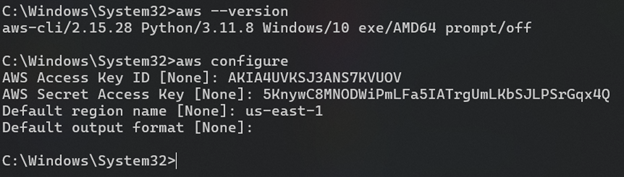
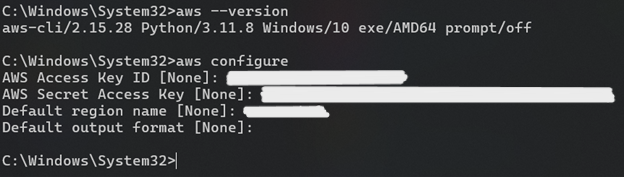
cli section completed

Changed region(s): [[0.3349, 0.3955, 1.0, 0.678]]

diff --git a/AWS_basics/AWS_CLI/README.md b/AWS_basics/AWS_CLI/README.md
@@ -11,21 +11,57 @@ Pretty useful when you want to automate tasks or use AWS from your local machine
 ![Web search for AWS CLI](images/cli001.png)
 
 **Step 2:** Follow the instructions on the official AWS documentation to install AWS CLI on your local machine.
+
 ![Instructions01](images/cli002.png)
 ![Instructions02](images/cli003.png)
 
 **Step 3:** Confirm the installation by running the following command in your terminal:
 
-    aws --version
+```bash
+aws --version
+```
 
 ![Confirmation](images/cli004.png)
 
-**Step 4:**
+After this if you try to run a program the mussage "Unable to locate credentials" is going to show up.
+
+**Step 4:** Enable the credentials using the AWS account.
+
+* Go to AWS Console and search for the Identity and Access Management (IAM).
+* In the menu on the left click the "Users" option unde Access Management.
+
+![IAM console](images/cli005.png)
+
+* Create a user, you can also use a accesss already created
+* For this we need the access key and the secret access key
+
+![IAM access keys](images/cli006.png)
+
+**Step 5:** Go back to your terminal and run the command:
+
+```bash
+aws configure
+```
+
+* It is going to ask for the access key just generated and then for the secret access key, select default region and your preferable output format.
+
+![aws configure](images/cli0010.png)
 
 ## Outcome
 
-<outcome text>
+Once the configuration is complete, you should be able to interact with AWS services directly from your terminal using the AWS CLI. For example:
+
+1. Run the following command to list all S3 buckets in your account:
+    ```bash
+    aws s3 ls
+    ```
+
+2. If the configuration is correct, you will see a list of S3 buckets associated with your AWS account.
+
+3. You can now execute other AWS CLI commands to manage resources, such as EC2 instances, DynamoDB tables, or Lambda functions.
+
+If you encounter any errors, double-check the access key, secret access key, and region provided during the configuration process.
 
 ## Conclution
 
-<Conclution text>
+We have walked through the steps to set up AWS CLI on your local machine, configure it with your AWS credentials, and verify its functionality. By completing these steps, you now have the ability to interact with AWS services programmatically from your terminal. This setup is essential for automating tasks, managing resources, and integrating AWS services into your development workflow. If you encounter any issues, refer back to the steps outlined above or consult the official AWS documentation for further assistance.
